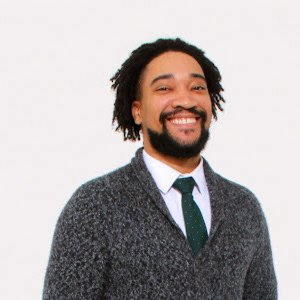
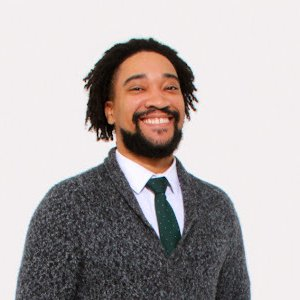
Add bridesmaids photos and re-center Darren's photo
Claude-Session: https://claude.ai/code/session_01PSYEt5LWrRtGBTP8UgenfS

diff --git a/src/pages/WeddingParty.tsx b/src/pages/WeddingParty.tsx
@@ -70,42 +70,49 @@ const WeddingParty = () => {
   const DEFAULT_BRIDESMAIDS: PartyMemberCardProps[] = [
     {
       name: "Anais Pacheco",
+      image: "/images/wedding-party/anais.jpg",
       role: "Maid of Honor",
       description:
         "Bride’s second eldest sister and built-in best friend. The one person who can usually get through to the bride when no one else can. Housewives partner-in-crime, cat sitter extraordinaire, and forever one of the bride and groom’s biggest supporters.",
     },
     {
       name: "Vanessa Pacheco",
+      image: "/images/wedding-party/vanessa.jpg",
       role: "Matron of Honor",
       description:
         "Bride’s big sister and go-to for honest advice. Superwoman who somehow does everything and makes it look easy. She survived having the bride as a bratty little sister and still loves her anyway.",
     },
     {
       name: "Gloria Correa",
+      image: "/images/wedding-party/gloria.jpg",
       role: "Bridesmaid",
       description:
         "Groom’s little sister and the bride’s fellow sassy little sister. Hilarious, thoughtful, and the queen of giving gifts she absolutely needs to watch you open. A sister the bride is lucky to have gained.",
     },
     {
       name: "Maria Correa",
+      image: "/images/wedding-party/maria.jpg",
       role: "Bridesmaid",
       description:
         "Groom’s eldest little sister and one of the kindest people you’ll ever meet. Responsible, caring, and always looking out for everyone, while still being one of the silliest people in the room.",
     },
     {
       name: "Brittanie LaCour",
+      image: "/images/wedding-party/brittanie.jpg",
       role: "Bridesmaid",
       description:
         "Bride’s high school best friend and longtime partner in crime. Sleepovers, sports, prom, heartbreaks, and a Jason Derulo dance are just a few of their greatest hits. No one showed up to the 10 year reunion because we planned it but thankfully, we always have each other.",
     },
     {
       name: "Margi Gomez",
+      image: "/images/wedding-party/margi.jpg",
       role: "Bridesmaid",
       description:
         "Bride’s high school friend who was once intimidating enough to make her want to avoid all eye contact. Years later, she became one of the bride’s closest friends and someone who can make her laugh until she cries. Proof that first impressions aren’t always right.",
     },
     {
       name: "Sirena Mota",
+      image: "/images/wedding-party/sirena.jpg",
       role: "Bridesmaid",
       description:
         "Bride’s college roommate turned lifelong friend. Their friendship began with an awkward library encounter involving her and the bride, and grew into one of the most important friendships in the bride’s life. The friend who was there when the bride needed someone most, and has never stopped showing up.",
